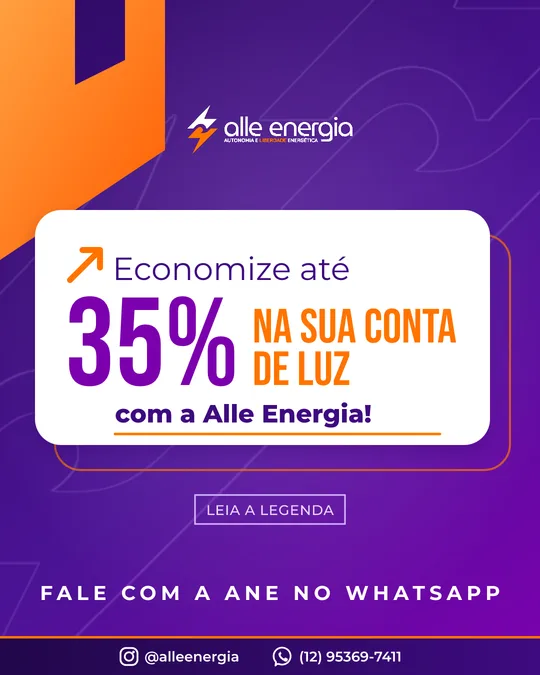
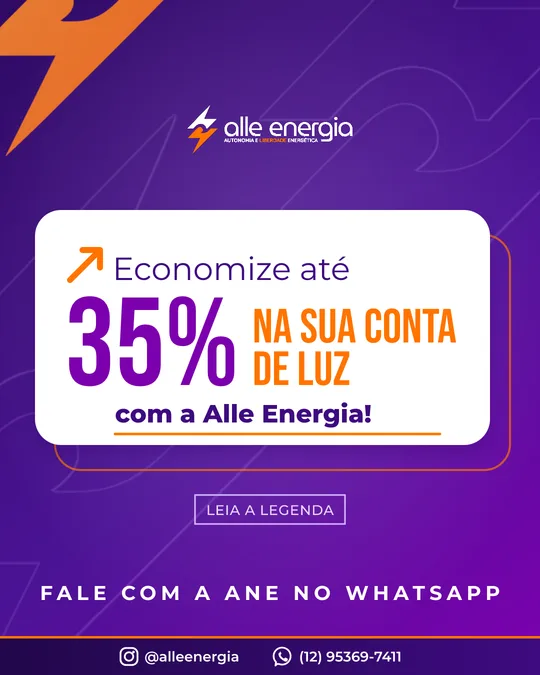
M39, M40, M42, M43: canto com a parte de baixo do raio da Alle no lugar do L
O bloco em L com recorte vira a parte de baixo do raio (alle:raio-mono como
máscara, a parte de cima fora da arte), menor e com opacidade 0,88, mais discreto.
Exemplos, prévias e a skill atualizados.

Changed region(s): [[0.0, 0.0, 0.3259, 0.4044]]

diff --git a/shared/designModels.ts b/shared/designModels.ts
@@ -27,9 +27,9 @@ export const DESIGN_MODEL_GROUPS: Record<DesignModelGroup, string> = {
 export const DESIGN_MODELS: DesignModel[] = [
   { id: "M38", name: "Vitrine com pessoa (fundo branco)", group: "branco", summary: "Fundo branco da Alle: logo no topo, título, a Ane saindo do card roxo e o texto embaixo." },
   { id: "M41", name: "Vitrine com pessoa (fundo roxo)", group: "branco", summary: "A versão roxa do M38, para contrastar com os posts brancos no perfil: logo branco, faixa laranja no topo, título branco e laranja e a Ane saindo do card laranja." },
-  { id: "M42", name: "Card de número (fundo roxo)", group: "branco", summary: "A versão roxa do M39: forma em L laranja, card branco com o número gigante em roxo, selo \"leia a legenda\" e chamada espaçada em branco." },
+  { id: "M42", name: "Card de número (fundo roxo)", group: "branco", summary: "A versão roxa do M39: a parte de baixo do raio da Alle em laranja no canto, card branco com o número gigante em roxo, selo \"leia a legenda\" e chamada espaçada em branco." },
   { id: "M43", name: "Manchete com objeto (fundo roxo)", group: "branco", summary: "A versão roxa do M40: manchete em branco com destaque laranja, faixa laranja no desconto e o objeto ilustrado embaixo." },
-  { id: "M39", name: "Card de número (fundo branco)", group: "branco", summary: "Fundo branco com forma em L no canto, card roxo com sombra e número gigante, selo \"leia a legenda\" e chamada espaçada." },
+  { id: "M39", name: "Card de número (fundo branco)", group: "branco", summary: "Fundo branco com a parte de baixo do raio da Alle no canto, card roxo com sombra e número gigante, selo \"leia a legenda\" e chamada espaçada." },
   { id: "M40", name: "Manchete com objeto (fundo branco)", group: "branco", summary: "Manchete em 3 níveis com destaque em faixa e sublinhado, selo \"leia a legenda\" e um objeto ilustrado embaixo." },
   { id: "M01", name: "Número gigante", group: "dados", summary: "Um número ocupa metade da arte, com a frase que dá sentido a ele." },
   { id: "M10", name: "Simulação de economia", group: "dados", summary: "Card com a conta de exemplo e a economia em 1 mês, 1 ano e 5 anos." },

diff --git a/server/agents/skills/alle-design/referencias.md b/server/agents/skills/alle-design/referencias.md
@@ -193,15 +193,17 @@ lado a lado no topo.
 
 **M42 · Card de número (fundo roxo) e M43 · Manchete com objeto (fundo roxo).** As versões roxas do M39 e do M40,
 criadas em 25/11/2026 para alternar com os brancos no perfil (branco, roxo, branco…). Mesma estrutura dos brancos, com:
-degradê roxo-escuro e traçados claros do raio; forma em "L" **laranja**; logo **branco**; rodapé roxo-escuro; selo
+degradê roxo-escuro e traçados claros do raio; a parte de baixo do raio da Alle no canto em **laranja**; logo **branco**; rodapé roxo-escuro; selo
 "LEIA A LEGENDA" em lilás claro. No **M42** o card do número é **branco** (contorno laranja deslocado), com o número em
 roxo `#7c00ae`, "Economize até" e a frase final em roxo-escuro, e a chamada espaçada de baixo em branco. No **M43** a
 manchete e as frases ficam em **branco**, o destaque em laranja, a faixa do desconto em laranja com texto branco e o
 objeto ilustrado igual. **Exemplos completos e editáveis: `skills/alle-design/modelos/M42.svg` e `M43.svg`.**
 
 **M39 · Card de número (fundo branco).** Mesma família do M38 (fundo branco, traçados discretos do raio da Alle e
-rodapé roxo com Instagram e WhatsApp), com esta estrutura: uma forma em "L" em degradê roxo (`#3d0b80` → `#7c00ae`)
-entrando pelo canto superior esquerdo, com um recorte branco; o logo da Alle centralizado (os logos da parceria
+rodapé roxo com Instagram e WhatsApp), com esta estrutura: a **parte de baixo do raio da Alle** em degradê roxo
+(`#3d0b80` → `#7c00ae`, opacidade ~0,88) entrando pelo canto superior esquerdo (a parte de cima do raio fica fora da
+arte; é o `alle:raio-mono` usado como máscara: copie o bloco "canto" do M39.svg; desde 25/11/2026 ele substitui a antiga
+forma em "L" com recorte, a pedido da equipe); o logo da Alle centralizado (os logos da parceria
 Allp Fit + Alle só quando a equipe pedir);
 um **card roxo-escuro `#3d0b80` arredondado (rx 52), com sombra e um contorno roxo fino deslocado para baixo e para
 a direita**; dentro dele, uma seta laranja subindo, "Economize até" em Montserrat 400 branco, o número gigante em
@@ -212,8 +214,8 @@ NO WHATSAPP"). **Exemplo completo e editável: `skills/alle-design/modelos/M39.s
 Percentual só "até 35%" (PJ) ou "até 15%" (PF), com a ressalva na legenda.
 *Referência: post de concorrente enviado pela equipe em 25/11/2026 (só a estrutura; identidade e textos da Alle).*
 
-**M40 · Manchete com objeto (fundo branco).** Mesma família do M38/M39: a forma em "L" entra pelo canto superior
-**direito**; o logo da Alle fica à esquerda no topo (parceria só quando a equipe pedir); a manchete é centralizada em 3 níveis: (1) título em Bebas Neue
+**M40 · Manchete com objeto (fundo branco).** Mesma família do M38/M39: a parte de baixo do raio entra pelo canto superior
+**direito** (espelhada; bloco "canto" do M40.svg); o logo da Alle fica à esquerda no topo (parceria só quando a equipe pedir); a manchete é centralizada em 3 níveis: (1) título em Bebas Neue
 roxo-escuro, (2) o destaque em Bebas Neue laranja, (3) uma linha em Montserrat 800 com a parte principal dentro de uma
 **faixa roxa `#7c00ae`** com texto branco ("até 35% de desconto") e o resto em roxo-escuro, e um fecho curto em
 Bebas Neue **sublinhado** ("TODOS OS MESES."); depois o selo "LEIA A LEGENDA" e, ocupando a metade de baixo, um
